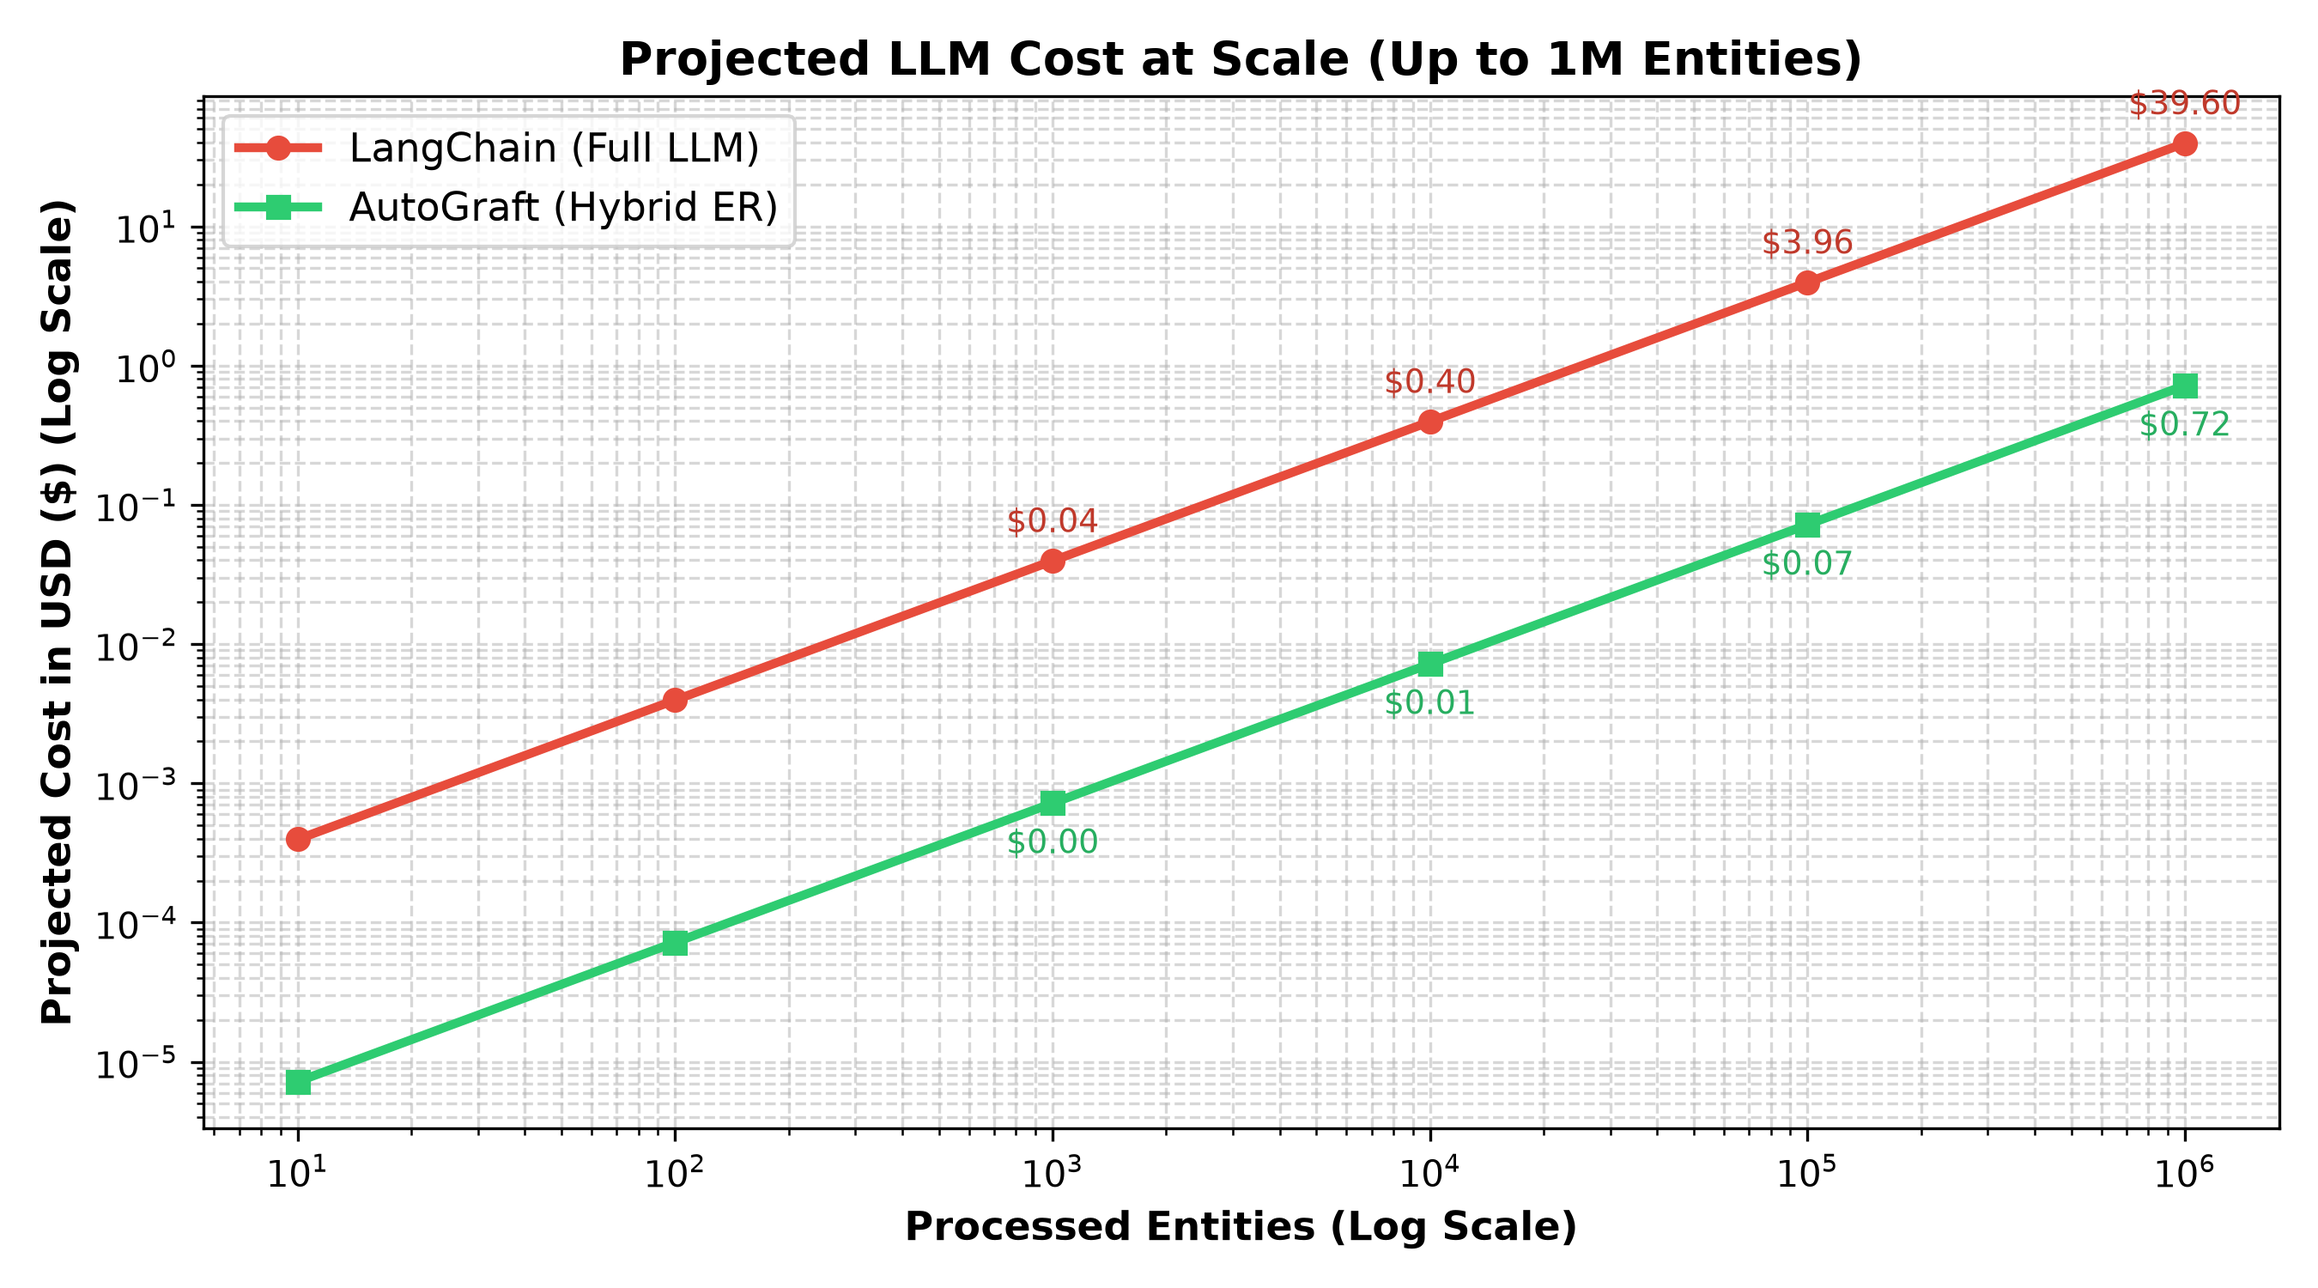
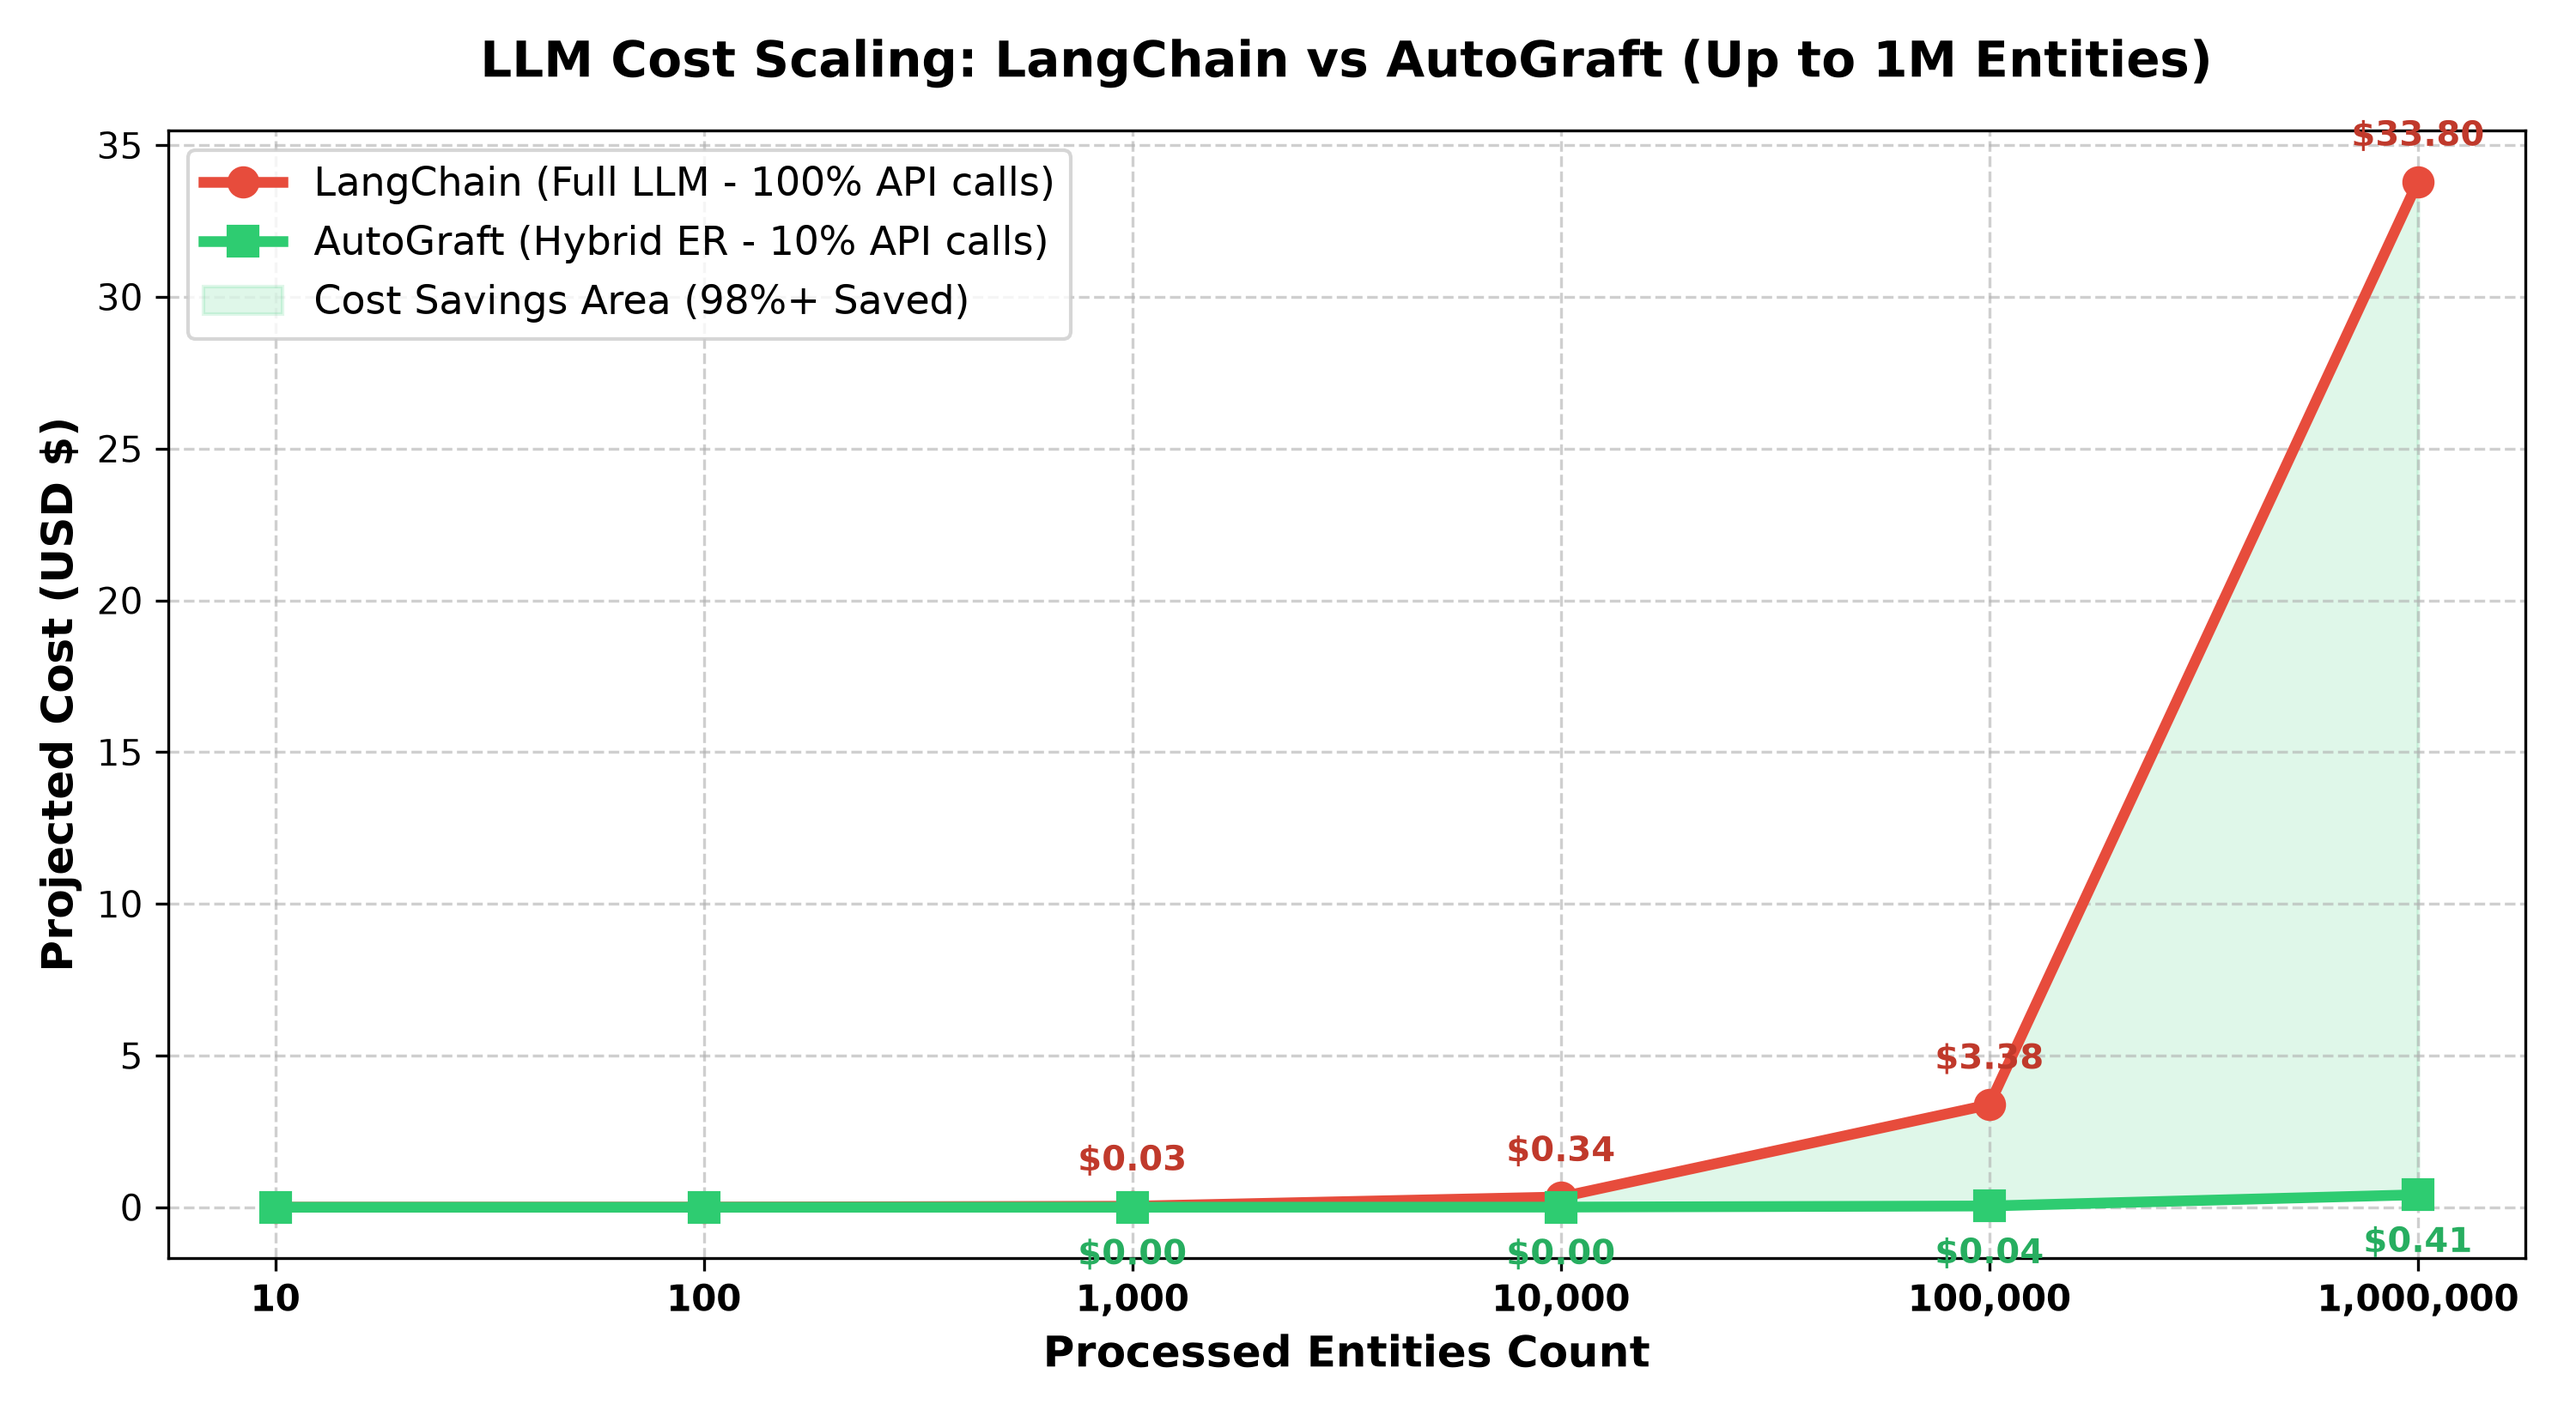
refactor: improve cost projection chart with linear Y scale and shaded savings region

Changed region(s): [[0.0, 0.0307, 0.9956, 0.9813]]

diff --git a/benchmark/run_benchmark.py b/benchmark/run_benchmark.py
@@ -198,7 +198,7 @@ def generate_charts(
 def generate_cost_projection_chart(
     lc_tokens: int, ag_tokens: int, num_entities: int = 5
 ) -> None:
-    """Generates cost projection line chart up to 1,000,000 entities."""
+    """Generates cost projection line chart up to 1,000,000 entities with linear Y scale."""
     os.makedirs("benchmark/assets", exist_ok=True)
 
     lc_avg_tokens = lc_tokens / num_entities
@@ -212,6 +212,7 @@ def generate_cost_projection_chart(
     print(f"  AutoGraft (10% LLM rate):  {ag_projected_tokens_per_entity:.1f} tokens/entity")
 
     data_volumes = [10, 100, 1_000, 10_000, 100_000, 1_000_000]
+    volume_labels = ["10", "100", "1,000", "10,000", "100,000", "1,000,000"]
     PRICE_PER_MILLION_TOKENS = 0.20  # $0.20 per 1M tokens
 
     lc_costs = [
@@ -223,54 +224,69 @@ def generate_cost_projection_chart(
         for vol in data_volumes
     ]
 
-    plt.figure(figsize=(9, 5))
-    plt.plot(
-        data_volumes,
+    fig, ax = plt.subplots(figsize=(10, 5.5))
+    x_indices = list(range(len(volume_labels)))
+
+    # Plot lines with discrete X spacing for maximum clarity
+    ax.plot(
+        x_indices,
         lc_costs,
         marker="o",
+        markersize=8,
         color="#e74c3c",
-        linewidth=2.5,
-        label="LangChain (Full LLM)",
+        linewidth=3,
+        label="LangChain (Full LLM - 100% API calls)",
     )
-    plt.plot(
-        data_volumes,
+    ax.plot(
+        x_indices,
         ag_costs,
         marker="s",
+        markersize=8,
         color="#2ecc71",
-        linewidth=2.5,
-        label="AutoGraft (Hybrid ER)",
+        linewidth=3,
+        label="AutoGraft (Hybrid ER - 10% API calls)",
     )
 
-    plt.xscale("log")
-    plt.yscale("log")
-    plt.xlabel("Processed Entities (Log Scale)", fontsize=11, fontweight="bold")
-    plt.ylabel("Projected Cost in USD ($) (Log Scale)", fontsize=11, fontweight="bold")
-    plt.title(
-        "Projected LLM Cost at Scale (Up to 1M Entities)",
-        fontsize=13,
+    # Shade the savings region
+    ax.fill_between(x_indices, lc_costs, ag_costs, color="#2ecc71", alpha=0.15, label="Cost Savings Area (98%+ Saved)")
+
+    ax.set_xticks(x_indices)
+    ax.set_xticklabels(volume_labels, fontsize=10, fontweight="bold")
+    ax.set_xlabel("Processed Entities Count", fontsize=12, fontweight="bold")
+    ax.set_ylabel("Projected Cost (USD $)", fontsize=12, fontweight="bold")
+    ax.set_title(
+        "LLM Cost Scaling: LangChain vs AutoGraft (Up to 1M Entities)",
+        fontsize=14,
         fontweight="bold",
+        pad=15,
     )
-    plt.grid(True, which="both", linestyle="--", alpha=0.5)
-    plt.legend(fontsize=11)
+    ax.grid(True, linestyle="--", alpha=0.6)
+    ax.legend(fontsize=11, loc="upper left")
 
-    for i, vol in enumerate(data_volumes):
+    # Annotate price points
+    for i in range(len(data_volumes)):
+        vol = data_volumes[i]
         if vol >= 1000:
-            plt.annotate(
-                f"${lc_costs[i]:.2f}",
-                (vol, lc_costs[i]),
+            # LangChain annotation
+            ax.annotate(
+                f"${lc_costs[i]:,.2f}",
+                (x_indices[i], lc_costs[i]),
                 textcoords="offset points",
-                xytext=(0, 8),
+                xytext=(0, 10),
                 ha="center",
-                fontsize=9,
+                fontsize=9.5,
+                fontweight="bold",
                 color="#c0392b",
             )
-            plt.annotate(
-                f"${ag_costs[i]:.2f}",
-                (vol, ag_costs[i]),
+            # AutoGraft annotation
+            ax.annotate(
+                f"${ag_costs[i]:,.2f}",
+                (x_indices[i], ag_costs[i]),
                 textcoords="offset points",
-                xytext=(0, -14),
+                xytext=(0, -16),
                 ha="center",
-                fontsize=9,
+                fontsize=9.5,
+                fontweight="bold",
                 color="#27ae60",
             )
 
@@ -278,7 +294,7 @@ def generate_cost_projection_chart(
     chart_path = "benchmark/assets/cost_projection.png"
     plt.savefig(chart_path, dpi=300)
     plt.close()
-    print(f"Cost projection chart successfully saved to '{chart_path}'")
+    print(f"Improved cost projection chart successfully saved to '{chart_path}'")
 
 
 def print_summary_table(
